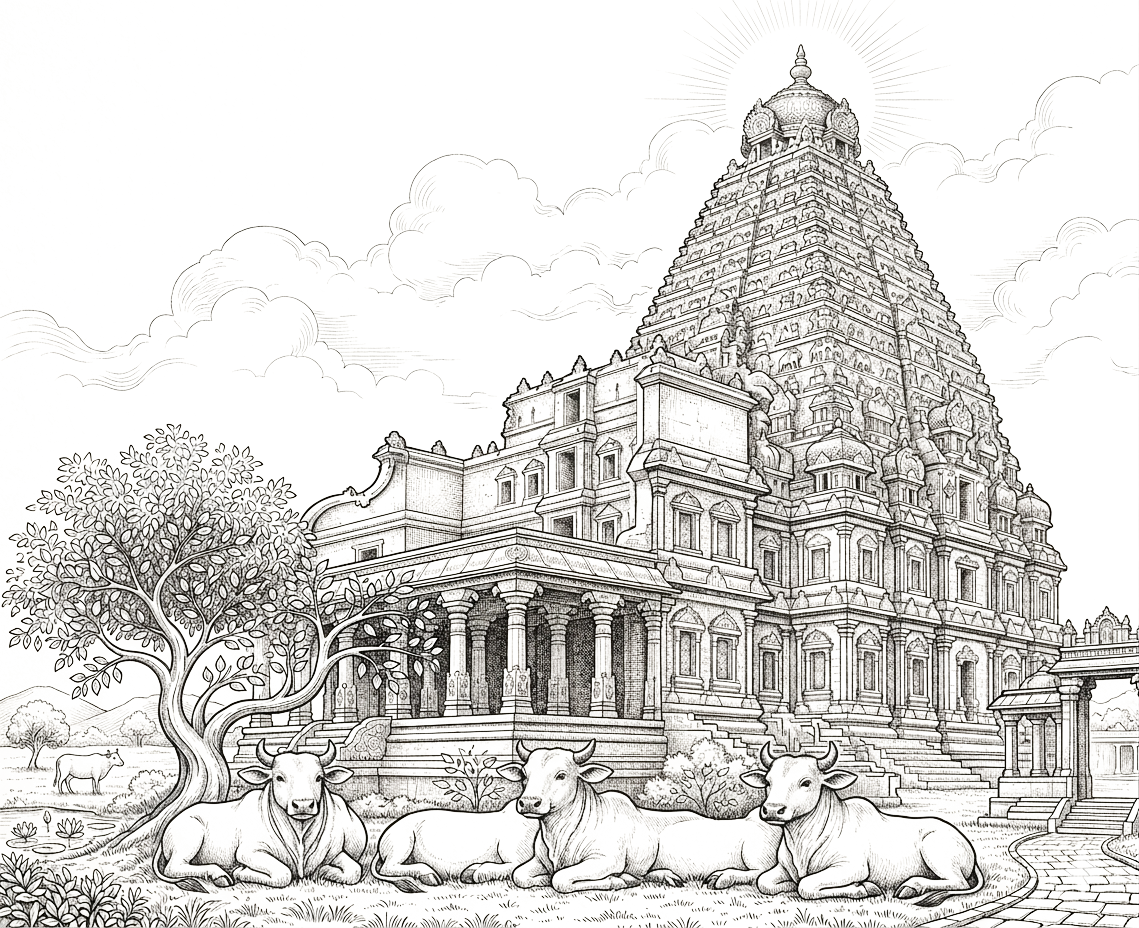
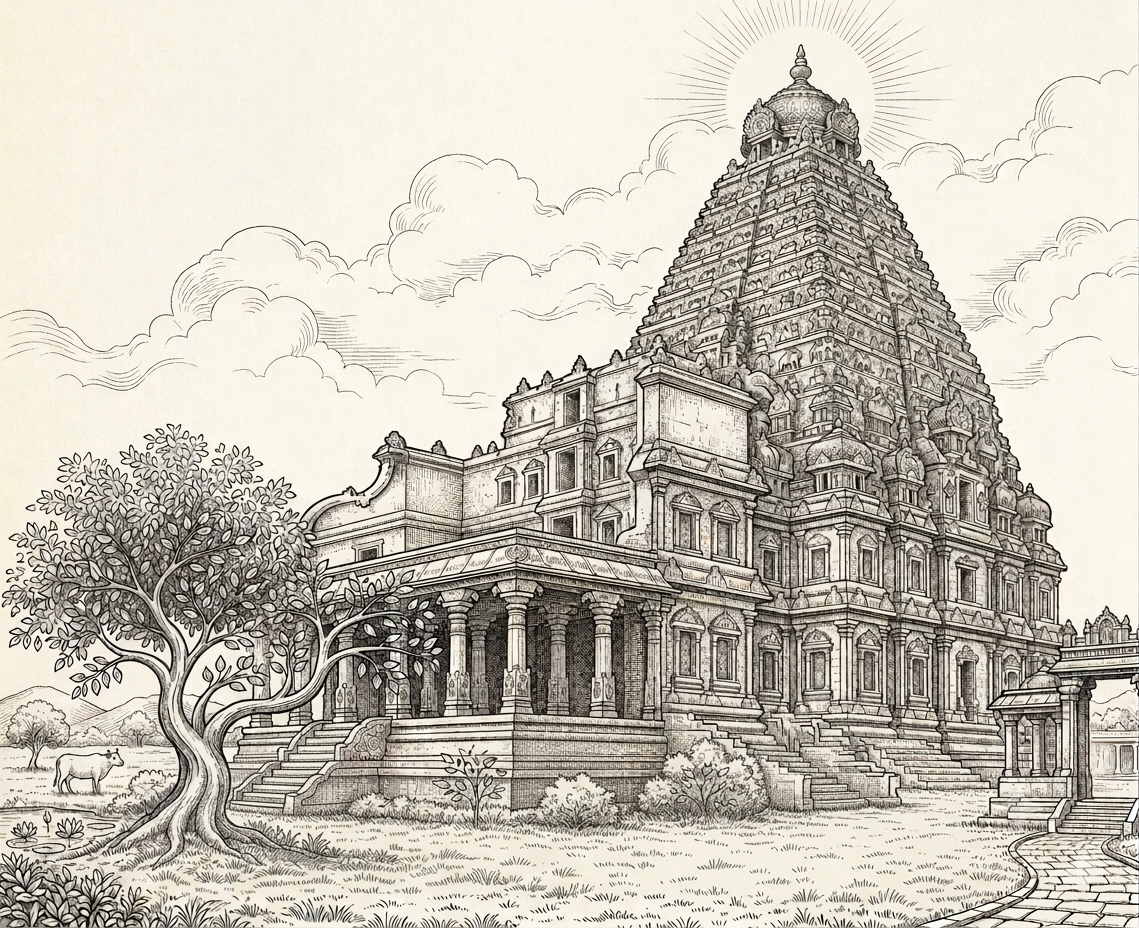
Home: brand-credibility section + seamless temple watermark + counter label
- Hero counter: 25+ Years of HR Expertise -> 30+ Years of HR Excellence.
- Temple backdrop: feather all edges with a radial mask (no visible rectangle), enlarge,
  and raise opacity so it reads as an integrated watermark, not a pasted image.
- New brand-credibility section below the hero: balanced two-column layout — editorial
  vertical KPIs (500+/2,000+/316/30+ with big Bitter numerals, uppercase labels, thin
  dividers, no cards) on the left; the feathered temple gopuram illustration on the
  right; 'Building Careers. Strengthening Businesses.' heading + supporting copy. Wired
  the shared pin-and-pause entrance (heading first, then KPIs stagger + temple rises,
  once). Responsive stack on mobile.

diff --git a/css/experience.css b/css/experience.css
@@ -42,10 +42,13 @@ html.lenis,html.lenis body{height:auto}
 .x-hero-glow{position:absolute;left:50%;top:34%;transform:translate3d(-50%,-50%,0);width:min(1360px,128vw);height:80%;z-index:2;
   background:radial-gradient(54% 60% at 50% 42%,rgba(255,254,252,.96),rgba(255,252,248,.66) 40%,rgba(255,252,248,.2) 62%,transparent 78%)}
 .x-temple{position:absolute;inset:0;z-index:1}
-.x-temple-media{position:absolute;left:50%;bottom:-1%;transform:translate3d(-50%,0,0);width:min(1200px,92vw);will-change:transform;backface-visibility:hidden}
+.x-temple-media{position:absolute;left:50%;bottom:-2%;transform:translate3d(-50%,0,0);width:min(1560px,108vw);will-change:transform;backface-visibility:hidden;
+  /* feather every edge so the rectangular image boundary disappears into the page */
+  -webkit-mask-image:radial-gradient(ellipse 64% 72% at 50% 44%, #000 34%, rgba(0,0,0,.5) 58%, transparent 78%);
+  mask-image:radial-gradient(ellipse 64% 72% at 50% 44%, #000 34%, rgba(0,0,0,.5) 58%, transparent 78%)}
 .x-temple-media .x-temple-photo,.x-temple-media svg{width:100%;height:auto;display:block;
   opacity:.22;filter:drop-shadow(0 22px 54px rgba(242,111,33,var(--tglow,.06)));transition:filter .8s ease}
-.x-temple-media .x-temple-photo{opacity:.2}   /* subtle editorial watermark — never competes with text */
+.x-temple-media .x-temple-photo{opacity:.34}   /* integrated editorial watermark — visible but never competes with text */
 .x-temple.has-photo .x-temple-svg{display:none}
 .x-temple-svg{max-width:560px;margin:0 auto}
 .x-temple-amb{position:absolute;left:50%;top:var(--ly,52%);transform:translate3d(-50%,-50%,0);width:min(980px,92vw);aspect-ratio:1;border-radius:50%;z-index:0;
@@ -88,6 +91,38 @@ html.lenis,html.lenis body{height:auto}
 .x-stat .num,.x-stat .ghost{font-variant-numeric:tabular-nums;font-feature-settings:"tnum"}
 .x-stat .suf{color:var(--orange);margin-left:2px}
 .x-stat .l{color:var(--ink2);font-size:clamp(.78rem,.95vw,.9rem);margin-top:8px;line-height:1.3;font-weight:500}
+
+/* ============ BRAND CREDIBILITY — editorial KPIs + temple illustration ============ */
+.x-brand{position:relative}
+.x-brand-pin{width:100%;padding:clamp(70px,9vh,110px) 0}
+.x-brand-grid{display:grid;grid-template-columns:43% 57%;gap:clamp(40px,5vw,72px);align-items:center;width:min(1240px,92vw);margin:0 auto}
+.x-brand-copy{max-width:540px}
+.x-brand-head .eyebrow{display:inline-flex}
+.x-brand-title{margin:8px 0 16px;line-height:1.14}
+.x-brand-lead{font-size:1.02rem;color:var(--ink2);line-height:1.62;margin:0 0 30px;max-width:44ch}
+/* vertical editorial KPI stats — thin dividers, big numerals, uppercase labels, no cards */
+.x-kpi{margin:0}
+.x-kpi-row{display:flex;align-items:baseline;gap:20px;padding:16px 2px;border-top:1px solid var(--hair)}
+.x-kpi-row:last-child{border-bottom:1px solid var(--hair)}
+.x-kpi-row dt{flex:none;min-width:132px;display:flex;align-items:baseline;font-family:'Bitter',serif;font-weight:600;font-size:clamp(1.9rem,2.9vw,2.7rem);line-height:1;letter-spacing:-.02em;color:var(--ink);font-variant-numeric:tabular-nums}
+.x-kpi-s{color:var(--orange);margin-left:1px}
+.x-kpi-row dd{margin:0;font-family:'Manrope';font-weight:600;font-size:.76rem;letter-spacing:.13em;text-transform:uppercase;color:var(--ink3);line-height:1.4}
+/* temple art — prominent but blended; the rectangular boundary feathers away */
+.x-brand-art{position:relative;display:flex;justify-content:center}
+.x-brand-temple{width:100%;max-width:640px;height:auto;display:block;opacity:.78;
+  -webkit-mask-image:radial-gradient(ellipse 66% 74% at 52% 50%, #000 30%, rgba(0,0,0,.45) 58%, transparent 76%);
+  mask-image:radial-gradient(ellipse 66% 74% at 52% 50%, #000 30%, rgba(0,0,0,.45) 58%, transparent 76%)}
+@media(min-width:901px){
+  .x-brand{min-height:100vh;display:flex;flex-direction:column;justify-content:center}
+  .x-brand-pin{padding:96px 0 46px}
+}
+@media(max-width:900px){
+  .x-brand-grid{grid-template-columns:1fr;gap:26px}
+  .x-brand-art{order:-1;max-width:460px;margin:0 auto}
+  .x-brand-copy{max-width:none}
+  .x-brand-temple{max-width:420px}
+  .x-kpi-row dt{min-width:120px}
+}
 
 @media(max-width:820px){
   .x-hero{min-height:auto;padding:112px 16px 60px}

diff --git a/index.html b/index.html
@@ -18,7 +18,7 @@
 <link rel="preconnect" href="https://fonts.gstatic.com" crossorigin>
 <link href="https://fonts.googleapis.com/css2?family=Bitter:ital,wght@0,400;0,500;0,600;0,700;0,800;1,400;1,500;1,600;1,700&family=Manrope:wght@300;400;500;600;700;800&display=swap" rel="stylesheet">
 <link rel="stylesheet" href="css/styles.css?v=21">
-<link rel="stylesheet" href="css/experience.css?v=7">
+<link rel="stylesheet" href="css/experience.css?v=8">
 <script type="application/ld+json">
 {
   "@context":"https://schema.org","@type":"Organization","name":"Talent Expert",
@@ -160,10 +160,30 @@
         <div class="x-stat" data-stat><div class="n"><span class="numw"><span class="ghost">500</span><span class="num" data-count="500">500</span></span><span class="suf">+</span></div><div class="l">Businesses Served</div></div>
         <div class="x-stat" data-stat><div class="n"><span class="numw"><span class="ghost">2,000</span><span class="num" data-count="2000" data-comma>2,000</span></span><span class="suf">+</span></div><div class="l">Placements Made</div></div>
         <div class="x-stat" data-stat><div class="n"><span class="numw"><span class="ghost">316</span><span class="num" data-count="316">316</span></span></div><div class="l">Taluks Covered</div></div>
-        <div class="x-stat" data-stat><div class="n"><span class="numw"><span class="ghost">25</span><span class="num" data-count="25">25</span></span><span class="suf">+</span></div><div class="l">Years of HR Expertise</div></div>
+        <div class="x-stat" data-stat><div class="n"><span class="numw"><span class="ghost">30</span><span class="num" data-count="30">30</span></span><span class="suf">+</span></div><div class="l">Years of HR Excellence</div></div>
       </div>
     </div>
   </div>
+</section>
+
+<!-- ============ BRAND CREDIBILITY — editorial KPIs + temple illustration ============ -->
+<section class="x-brand" id="brand">
+  <div class="x-brand-pin"><div class="wrap x-brand-grid">
+    <div class="x-brand-copy">
+      <div class="x-brand-head">
+        <span class="eyebrow">Our Impact</span>
+        <h2 class="title x-brand-title"><span class="hl-mark">Building Careers.<br><b>Strengthening Businesses.</b></span></h2>
+        <p class="lead x-brand-lead">For three decades we've connected rural potential with business growth — placing the right people in the right roles, across Tamil&nbsp;Nadu and beyond.</p>
+      </div>
+      <dl class="x-kpi">
+        <div class="x-kpi-row"><dt><span class="x-kpi-n">500</span><span class="x-kpi-s">+</span></dt><dd>Businesses Served</dd></div>
+        <div class="x-kpi-row"><dt><span class="x-kpi-n">2,000</span><span class="x-kpi-s">+</span></dt><dd>Placements Made</dd></div>
+        <div class="x-kpi-row"><dt><span class="x-kpi-n">316</span></dt><dd>Taluks Covered</dd></div>
+        <div class="x-kpi-row"><dt><span class="x-kpi-n">30</span><span class="x-kpi-s">+</span></dt><dd>Years of Experience</dd></div>
+      </dl>
+    </div>
+    <div class="x-brand-art" aria-hidden="true"><img src="assets/illustrations/temple.png" alt="" class="x-brand-temple" loading="lazy"></div>
+  </div></div>
 </section>
 
 <!-- ============ WHO WE ARE — pinned, progressive story + Discover/Develop/Sustain ============ -->
@@ -410,6 +430,6 @@
 <script src="js/vendor/lenis.min.js"></script>
 <script src="js/vendor/split-type.min.js"></script>
 <script src="js/main.js?v=9"></script>
-<script src="js/experience.js?v=7"></script>
+<script src="js/experience.js?v=8"></script>
 </body>
 </html>

diff --git a/js/experience.js b/js/experience.js
@@ -242,6 +242,9 @@
     showWho();
     void armWho;
   }
+  /* BRAND CREDIBILITY chapter: heading fades first, then KPIs stagger + temple rises, once */
+  sectionIntro('#brand', '.x-brand-head', '.x-kpi-row, .x-brand-art', { pin: true, hold: 0.65 });
+
   /* WHO WE ARE chapter: pin + float the story paragraphs and the step diagram in once */
   sectionIntro('.x-who', '.x-who-head', '.x-who-story .wp, .x-who .ddd-stage', { pin: true, pinTarget: '.x-who-pin', hold: 0.6 });
 